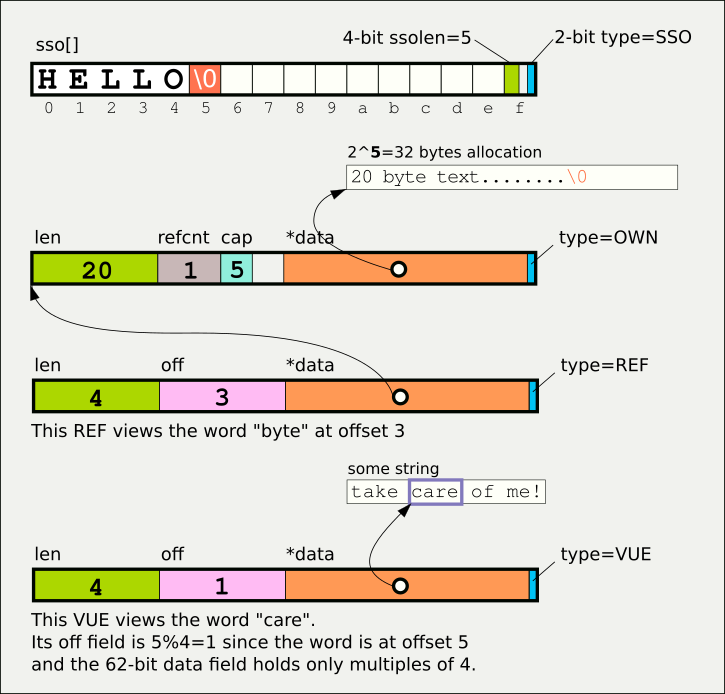
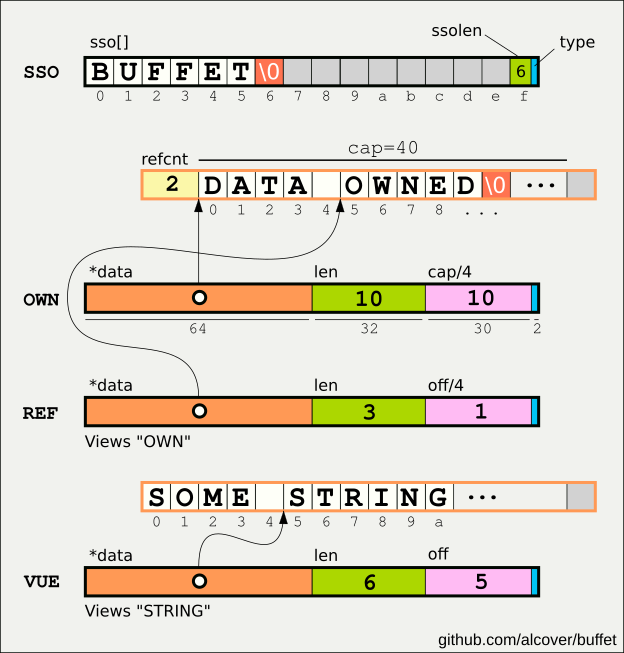
upd

diff --git a/README.md b/README.md
@@ -1,7 +1,7 @@
 # Buffet
 
 *All-inclusive Buffer for C*  
-(Unit-tested but not yet stable, optimized or feature-complete)  
+(Experiment - not yet stable or optimized)  
 
 :orange_book: [API](#API)  
 
@@ -9,13 +9,14 @@
 
 ![schema](assets/buffet.png)  
 
-*Buffet* is a versatile string buffer type featuring
-- automated storage and reallocation  
-- **SSO** (Small String Optimization) : short data is stored inline
+*Buffet* is a polymorphic string buffer type featuring :
+- **SSO** (small string optimization) : short data is stored inline
 - **views** : no-cost references to slices of data  
-- **ref count** : accounting of reference-owner relation
+- **reference counting** : secures the release of views and owned data
+- **cstr** : obtain a null-terminated C string
+- automated (re)allocations  
 
-In only **16 bytes**, fitting a 128-bit register.
+In a mere register-fitting **16 bytes**.
 
 
 
@@ -23,36 +24,38 @@ In only **16 bytes**, fitting a 128-bit register.
 Through a tagged union:  
 
 ```C
-typedef union Buffet {
-      
+union Buffet {
+        
+    // OWN, REF, VUE
+    struct {
+        char*    data
+        uint32_t len
+        uint32_t aux:30, type:2 // aux = {cap|off}
+    } ptr
+
     // SSO
     struct {
-        char        sso[15]  // in-situ data
-        uint8_t     ssolen:4 // in-situ length
-    }
+        char     data[15]
+        uint8_t  len:6, type:2
+    } sso
 
-    // OWN | REF | VUE
-    struct { 
-        uint32_t len // data length
-        union {
-              uint32_t off // REF: data offset; VUE: address remainder
-              struct {
-                    uint16_t refcnt // OWN: number of references
-                    uint8_t  cap    // OWN: log2(allocated mem)
-              }
-        }
-        intptr_t data : 62 // OWN|VUE: data ptr; REF: ptr to owner
-        uint8_t  type : 2  // tag = {SSO|OWN|REF|VUE}
-    }
+    char fill[BFT_SIZE]
+ 
 }
 ```  
-Depending on its tag, a *Buffet* is interpreted as either
-- `SSO` : a char array as value
-- `OWN` : owning heap-allocated data
-- `REF` : referencing a slice of a data-owning *Buffet*
-- `VUE` : viewing data directly
+The `type` tag sets how a *Buffet* is interpreted :
+- `SSO` : as a char array
+- `OWN` : as owning heap-allocated data
+- `REF` : as a slice of owned data
+- `VUE` : as a slice of other data 
 
-Any *owned* data (SSO/OWN) is NUL-terminated.  
+The `ptr` sub-type covers :
+- `OWN` : with `aux` as capacity
+- `REF` : with `aux` as offset
+- `VUE` : with `aux` as offset
+
+
+Any *owned* data (`SSO`/`OWN`) is null-terminated.  
 
 ![schema](assets/schema.png)
 
@@ -110,14 +113,12 @@ rain is wet
 [bft_strview](#bft_strview)  
 [bft_copy](#bft_copy)  
 [bft_view](#bft_view)  
-[bft_free](#bft_free)  
-
 [bft_append](#bft_append)  
+[bft_free](#bft_free)  
 
 [bft_cap](#bft_cap)  
 [bft_len](#bft_len)  
 [bft_data](#bft_data)  
-
 [bft_cstr](#bft_cstr)  
 [bft_export](#bft_export)  
 
@@ -179,7 +180,7 @@ The return is an independant owning Buffet.
 
 ### bft_view
 ```C
-Buffet bft_view (Buffet *src, ptrdiff_t off, size_t len)
+Buffet bft_view (const Buffet *src, ptrdiff_t off, size_t len)
 ```
 Create new *Buffet* by viewing `len` bytes from [data(`src`) + `off`].  
 The return is internally either 
